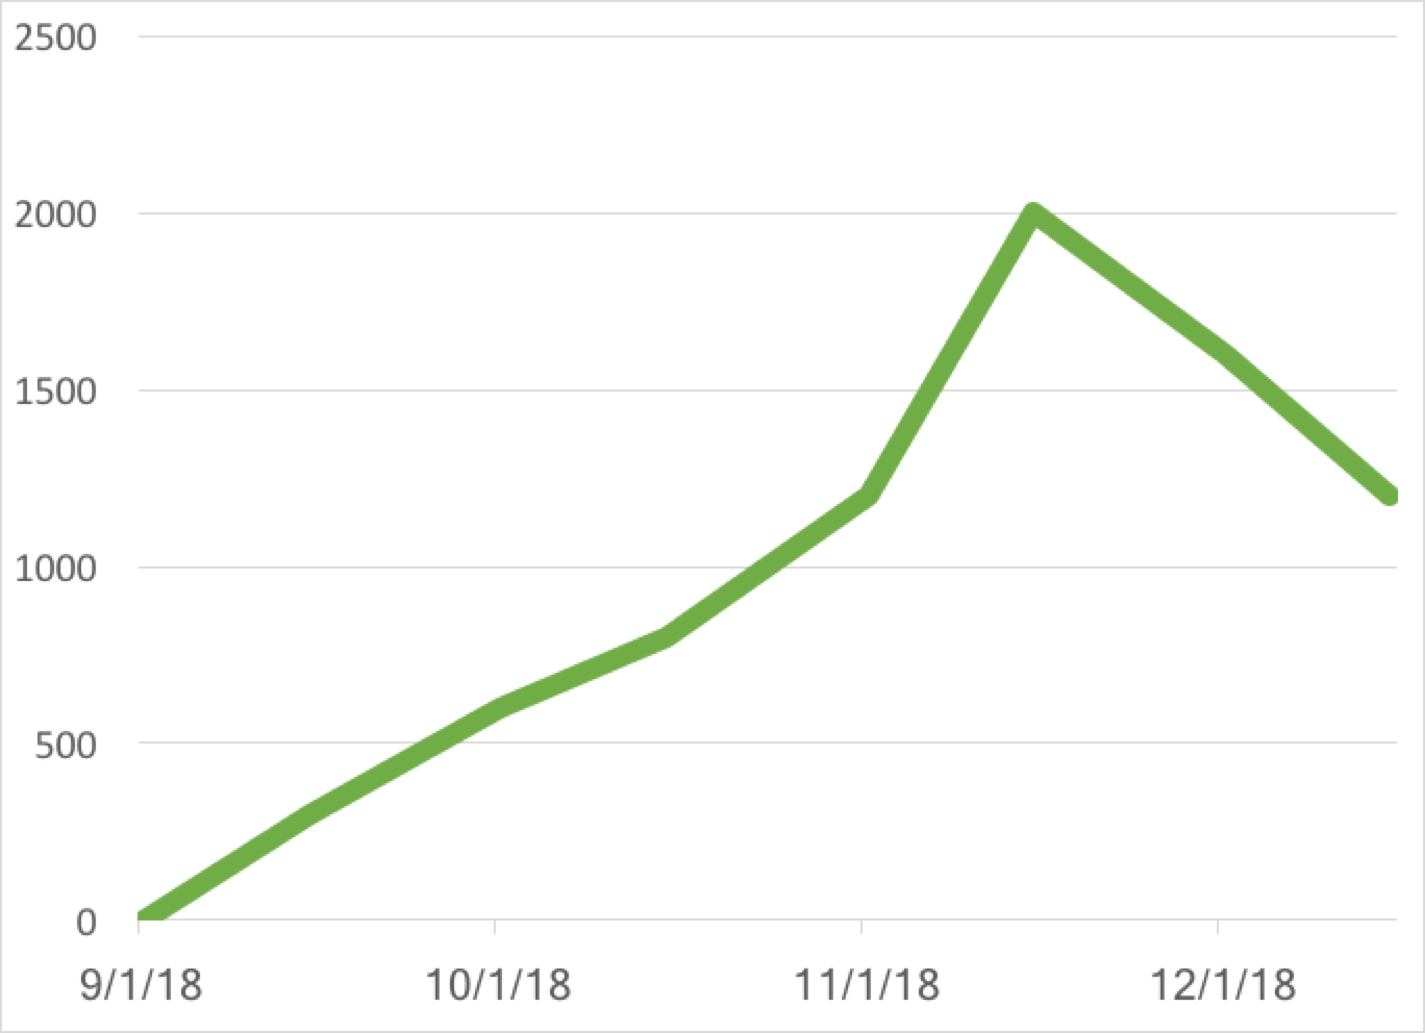
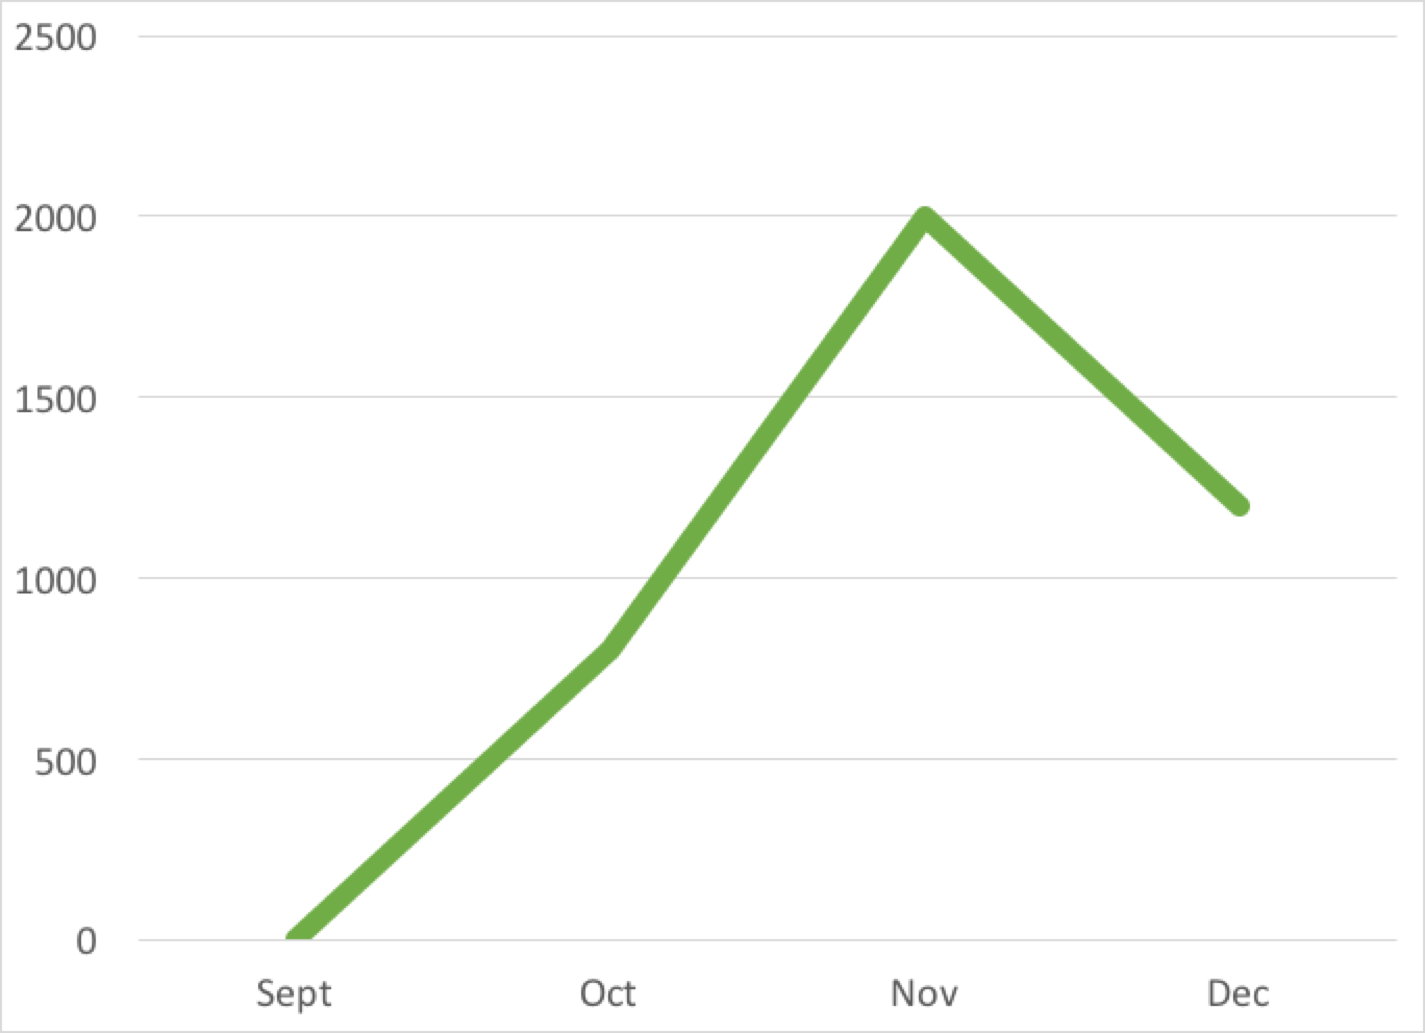
Updated Student report images with different graphs. Student/Index header mogwai now rotates on hover.

diff --git a/EverPresent/EverPresent/Content/Site.css b/EverPresent/EverPresent/Content/Site.css
@@ -29,6 +29,20 @@ h2, h3, h4 {
     font-family: 'Nunito', sans-serif;
 }
 
+/* Font for Mogwai collection view, non-headers */
 .mogwai-info {
     font-family: 'Nunito', sans-serif;
+}
+
+/* Student/Index header avatar */
+.studentIndexAvatar {
+    padding-right: 30px;
+    -webkit-transition: -webkit-transform .8s ease-in-out;
+    transition: transform .8s ease-in-out;
+}
+
+/* Student/Index header avatar hover*/
+.studentIndexAvatar:hover {
+    -webkit-transform: rotate(360deg);
+    transform: rotate(360deg);
 }
